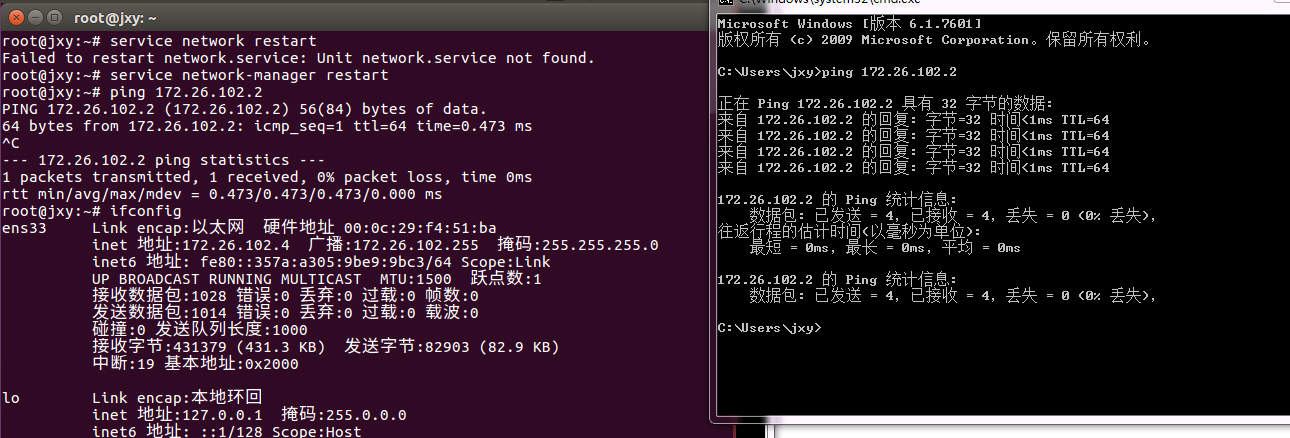
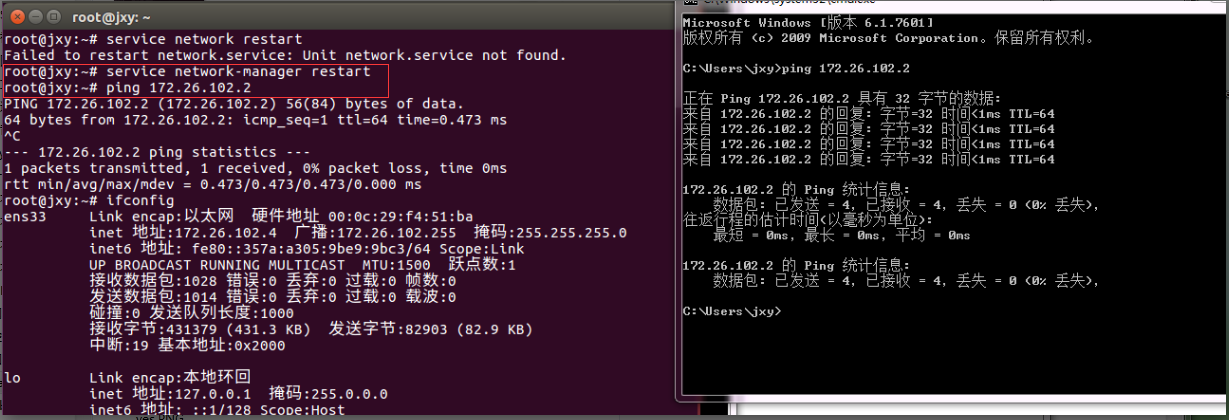
add picture

Changed region(s): [[0.0, 0.0, 1.0, 1.0], [0.0, 0.8667, 0.0309, 0.9286]]

diff --git a/README.md b/README.md
@@ -1,4 +1,28 @@
-# 在 Ubuntu 下安装 Hadoop-2.7.3
+# 在 Ubuntu-16.04 下安装 Hadoop-2.7.3
 
-  1.设置静态ip：
+  1.启用 root 账户
+    ubuntu 安装好之后进入的是普通用户， root用户默认禁用。安装要在 root 用户下，用 sudo su 切换的不一样。所以要将 root 用户开启：
+    * 启用 root 账户：进入终端，使用命令 sudo passwd root设置root的密码
+    * 启用图形界面登录：输入命令，sudo vi /etc/lightdm/lightdm.conf，在文件末尾输入<br><b>
+      allow-guest=false //禁用客人会话                                
+      greeter-show-manual-login=true //开启图形登录</b></br>      
+    * 重启系统，可以看到登录，输入 root 账户名的界面                   
     ![图片](https://github.com/Hiooary/hadoop_3.io/blob/master/images/one.PNG)
+
+  2.设置静态ip： 
+    修改ip：                                                             
+    ![图片](https://github.com/Hiooary/hadoop_3.io/blob/master/images/two.PNG)
+    重启网卡：service network-manager restart                       
+    ![图片](https://github.com/Hiooary/hadoop_3.io/blob/master/images/three.PNG)
+
+
+
+![图片](https://github.com/Hiooary/hadoop_3.io/blob/master/images/two.PNG)
+![图片](https://github.com/Hiooary/hadoop_3.io/blob/master/images/two.PNG)
+![图片](https://github.com/Hiooary/hadoop_3.io/blob/master/images/two.PNG)
+![图片](https://github.com/Hiooary/hadoop_3.io/blob/master/images/two.PNG)
+![图片](https://github.com/Hiooary/hadoop_3.io/blob/master/images/two.PNG)
+![图片](https://github.com/Hiooary/hadoop_3.io/blob/master/images/two.PNG)
+![图片](https://github.com/Hiooary/hadoop_3.io/blob/master/images/two.PNG)
+![图片](https://github.com/Hiooary/hadoop_3.io/blob/master/images/two.PNG)                                                                          
+    
